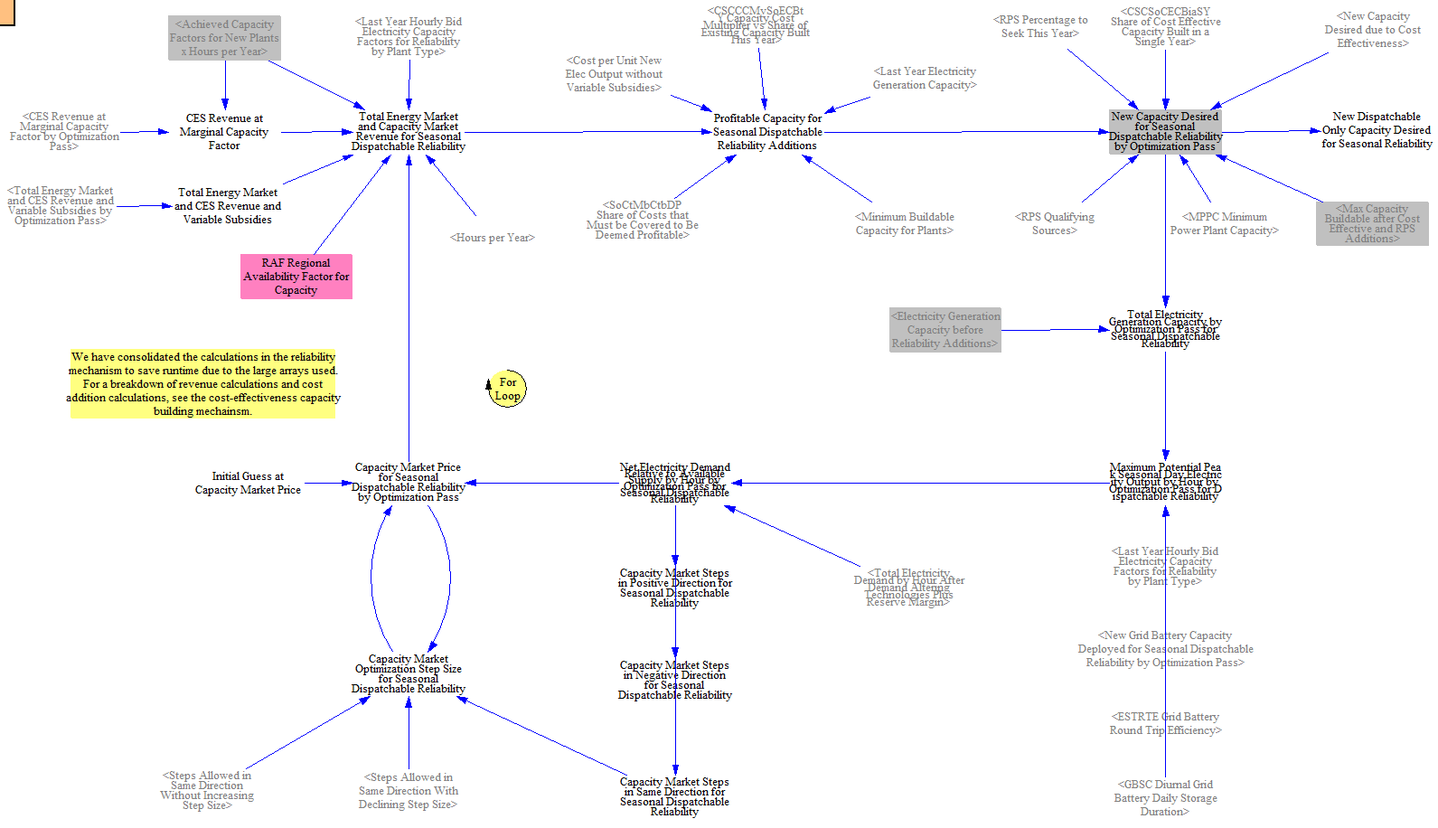
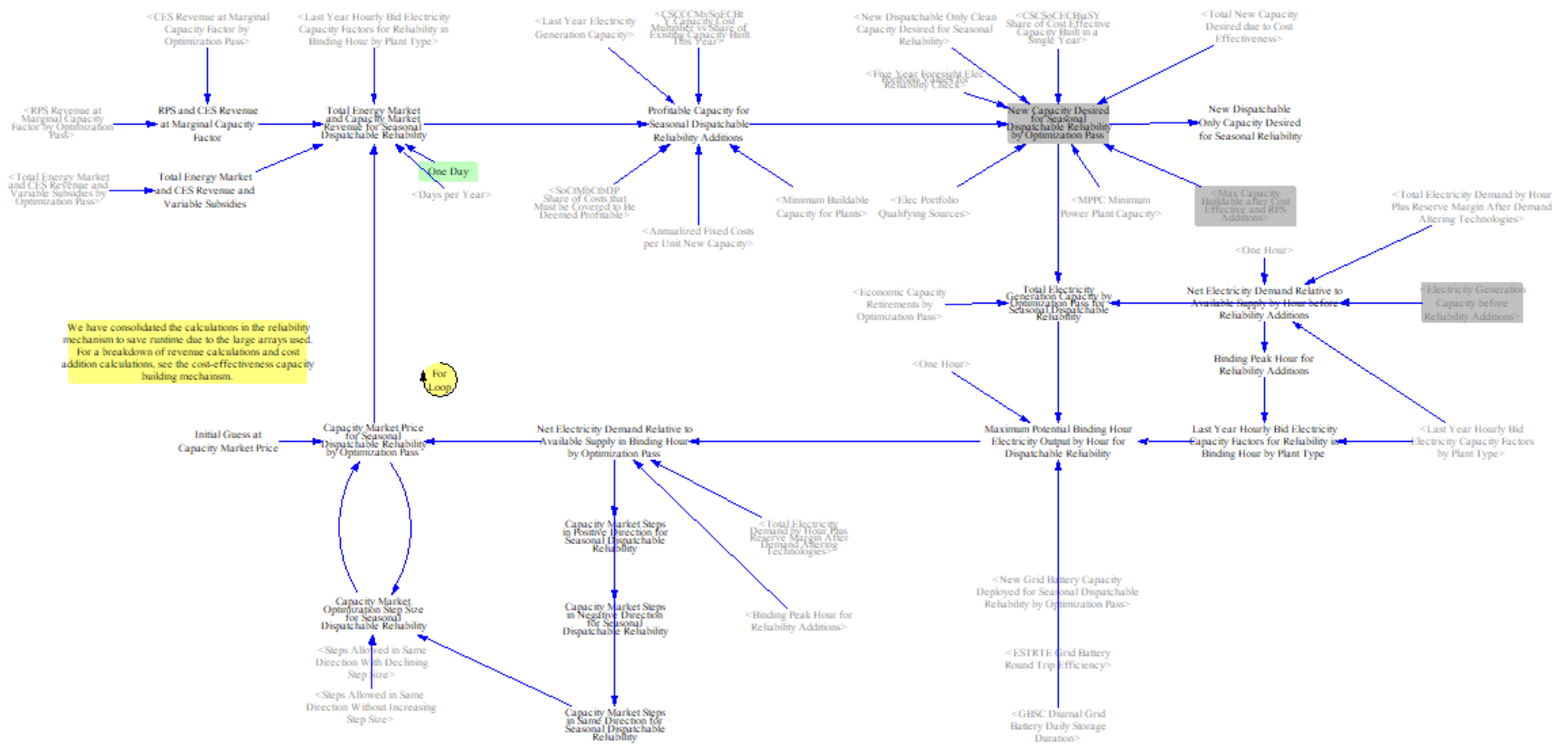
Electricity sector main 4.0.5 update

diff --git a/docs/electricity-sector-main.md b/docs/electricity-sector-main.md
@@ -69,7 +69,7 @@ The EPS reads electricity exports (total) and imports (by fuel type) from input 
 
 ### Calculating Hourly Electricity Demand from Annual Electricity Demand including Own Use and Transmission and Distribution Losses
 
-The model then moves to compute total hourly final electricity demand. In other sectors of the model, electricity demand is tracked annuallyl; for example, total annual cooling demand in buildings or demand for electric vehicle charging. Input data relating annual demand to hourly demand (load factors) is used to convert the annual values to hourly values aligned with the electricity timeslices used by the model. 
+The model then moves to compute total hourly final electricity demand. In other sectors of the model, electricity demand is tracked annually; for example, total annual cooling demand in buildings or demand for electric vehicle charging. Input data relating annual demand to hourly demand (load factors) are used to convert the annual values to hourly values aligned with the electricity timeslices used by the model. 
 
 Due to differences in data alignment, i.e. some end uses don’t directly overlap with input data, an adjustment can be necessary to ensure the computed peak and minimum demand values align with historical data. In this step, the model multiplies the computed hourly demand by an Hourly Variance Multiplier that is estimated such that the peak annual demand in the EPS aligns with historically observed values.
 
@@ -113,7 +113,12 @@ Next the model estimates the potential day contribution of pumped hydro. Due to 
 
 #### EV Batteries
 
-EV batteries can contribute to load shifting in the EPS based on input data and policy settings. The model aggregates the total amount of battery capacity from the existing stock of vehicles and then applies a BAU share of the EV battery capacity that can be used for grid balancing based on input data (in many countries this is set to zero as there is no vehicle-to-grid availability yet). Users can modify this through a policy lever which allows for increasing the share of total EV battery capacity that can be used for grid balancing. The model computes the final maximum amount of daily shifting that can be utilized from the EV batteries (round trip losses are accounted for later).
+EV batteries can contribute to load shifting in the EPS based on input data and policy settings. The model tracks two related but distinct measures of available EV-battery contribution to grid balancing:
+
+* The **daily energy budget** (in MW·hr) that can be charged or discharged for diurnal balancing — the measure used in the load-shifting calculations described in this section. It is computed from the existing fleet's total battery energy capacity multiplied by the BAU share of EV battery capacity available for grid balancing (in many countries this is set to zero today as there is no vehicle-to-grid availability yet).
+* The **instantaneous power capacity** (in MW) that EVs can supply to the grid as a demand-shifting resource. It is computed by multiplying the number of battery electric vehicles in each vehicle and cargo type by the average vehicle charger capacity (in kW per vehicle), summed across the fleet, and then multiplied by the same grid-balancing share. This MW figure feeds a unified `Total Demand Shifting Capacity in MW` aggregator that combines EV batteries with demand response, pumped hydro, and grid + hybrid battery storage for grid-services accounting.
+
+Users can modify the grid-balancing share through a policy lever which allows for increasing the share of total EV battery capacity that can be used for grid balancing. The model computes the final maximum amount of daily shifting that can be utilized from the EV batteries (round trip losses are accounted for later).
 
 ![potential daily max shifting from EV batteries](/img/electricity-sector-main-EVBatteries.png)
 
@@ -163,7 +168,7 @@ At the end of this calculation flow, the model has determined the final hourly e
 
 ### Summing Charging and Discharging from Batteries
 
-Finally, the model sums the total amount of battery capacity and the total charging and discharging of batteries, inclusive of hybrid batteries, for use in other places throughout the model.
+The model sums the total amount of battery capacity and the total charging and discharging of batteries, inclusive of hybrid batteries, for use in other places throughout the model. For hybrid batteries (those paired with a renewable resource at the same plant), the model decides which hours to charge and discharge by treating the previous five-year average marginal dispatch cost as a price signal: a Vensim allocation function distributes each day's charging budget toward the hours with the lowest prices and the discharging budget toward the hours with the highest prices, so that hybrid storage tends to charge when cheap power is plentiful and discharge when prices are high. Standalone grid batteries continue to use the load-shifting allocation mechanism described in the diurnal-balancing sections above.
 
 ![total hourly and annual charging and discharging of battery storage](/img/electricity-sector-main-HourlyBatteryChargeDischarge.png)
 
@@ -205,7 +210,7 @@ Annual recurring costs are calculated as an input into the retirement decision-m
 
 ### Clean Electricity Standard and Zero Emission Credit Revenue
 
-Input data can specify any credits specifically for nuclear power plant owners. The model calculates a credit price from the clean electricity standard (discussed later) which is used here. Total revenue from these credits is calculated for use in the retirement calculations.
+Input data can specify any credits specifically for nuclear power plant owners. The model calculates credit prices from the clean electricity portfolio standard (discussed later) which are used here. The portfolio standard is represented as a unified framework that can simultaneously enforce a Renewable Portfolio Standard (RPS) and a Clean Energy Standard (CES) -- the two are configured independently with their own qualifying-resource definitions and percentage targets, and a separate credit price is computed for each. Total revenue from these credits, summed across the RPS and CES paths, is calculated for use in the retirement calculations.
 
 ![Revenues from CES and ZEC programs](/img/electricity-sector-main-CESandZECRevenues.png)
 
@@ -247,7 +252,13 @@ For each power plant type, annual revenues are compared against going forward co
 
 To this, the model adds capacity retirements specified in input data and finally adds capacity retirements from any policy lever settings to determine total retiring generation capacity.
 
+The model also supports a third, optional retirement path based on a fixed economic lifetime per power plant type. When this path is enabled (via a control setting), the model retires capacity in the year that its vintage age equals the configured economic lifetime for its source type, in addition to any economic and policy-driven retirements that would otherwise occur. This complements the economic retirement mechanism described above and is useful for calibration and for representing plants that are scheduled to retire at expected end-of-life regardless of profitability. The control setting is off by default in the U.S. model.
+
 ![Calculated total retiring generation capacity](/img/electricity-sector-main-Retirements2.png)
+
+We duplicate this structure below but exclude plants' predicted capacity market revenue. The retirements calculated here are not used in the calculation flow; rather the difference between modeled cumulative retiring capacity and the value without capacity payments is used later in the cash flows to estimate system capacity costs.
+
+![Retiring generation capacity without capacity payment](/img/electricity-sector-main-Retirements3.png)
 
 ### Maximum Buildable Capacity
 
@@ -261,7 +272,7 @@ In this stage, the model calculates new capacity additions across multiple mecha
 
 ### Policy Mandated Capacity Additions and Retrofits
 
-Mandated capacity additions and CCUS retrofits in the BAU and policy scenarios can be specified in the input data and policy levers. The model starts by reading in these values and adding them to new capacity built and retrofits in future years. 
+Mandated capacity additions and CCUS retrofits in the BAU and policy scenarios can be specified in the input data and policy levers. The model starts by reading in these values and adding them to new capacity built and retrofits in future years. The model maintains two independent mandate paths: a per-electricity-source generation mandate (covering the 24 generation technologies listed above) and a grid-battery storage mandate, each with its own BAU input schedule and its own non-BAU policy lever. The grid-battery path uses `BPMGBSA BAU Policy Mandated Grid Battery Storage Additions` as its BAU input. The two paths are independent, so a user can override mandated grid-battery additions without disturbing mandated generation construction, and vice versa.
 
 ![Policy mandated capacity additions and retrofits](/img/electricity-sector-main-PolicyMandatedAdditionsRetrofits.png)
 
@@ -281,7 +292,7 @@ The core logic underpinning each element of the capacity expansion structure ope
 
 This mechanism operates simultaneously for new resources without storage, new resources with storage, and CCUS retrofits of existing resources.
 
-The model begins by cumulating the total anticipated revenue by resource type. This relies on the rolling four-year energy market revenue discussed earlier and any anticipated policy revenue, particularly credits for the Clean Electricity Standard, which is co-optimized with economic capacity expansion (discussed later). Revenue is normalized into $/Megawatt-hour based on achieved capacity factors by resource in the model. Subsidies for electricity generation are added.
+The model begins by cumulating the total anticipated revenue by resource type. This relies on the rolling four-year energy market revenue discussed earlier and any anticipated policy revenue, particularly credits from the portfolio-standard mechanism (RPS, CES, or both), which is co-optimized with economic capacity expansion (discussed later). Revenue is normalized into $/Megawatt-hour based on achieved capacity factors by resource in the model. Subsidies for electricity generation are added.
 
 The model then compares anticipated revenue against the anticipated levelized cost of building new resources, not including variable subsidies (these are considered a revenue stream). Resources that are profitable will have revenues that exceed costs while unprofitable resources will not. This results in a profit value, i.e. revenues minus costs.
 
@@ -297,9 +308,11 @@ The model then computes the total new capacity added using this computed value a
 
 ### Clean Electricity Standard Additions
 
-The EPS includes the clean electricity standard (CES; sometimes referred to as renewable portfolio standard, RPS) as one of the key power sector policies. The application of the CES/RPS is co-optimized with the cost-effectiveness additions to identify a credit price that generates sufficient revenue to add or retrofit resources for cost-effectiveness that leads to compliance with the CES/RPS setting. In each optimization pass, the model checks to see whether the anticipated amount of existing and new or retrofit clean electricity is sufficient to meet the standard. It will raise the credit price until this share is met and converge on a credit price that gets just the right amount of new clean capacity built and/or retrofit. 
+The EPS represents electricity portfolio standards through a unified framework that can simultaneously enforce a Renewable Portfolio Standard (RPS) and a Clean Energy Standard (CES). RPS typically qualifies only renewable resources (wind, solar, geothermal, hydro, etc.); CES is broader and may also qualify nuclear, fossil generation paired with carbon capture, and other low-carbon firm resources. The model treats the two as configurations of the same machinery: each has its own qualifying-resource definitions, its own percentage targets (which can also vary by subregion), and its own credit price that the model converges on. A run can enforce either standard, both at once, or neither. Where these docs below use the abbreviation "CES/RPS," it refers to whichever of the two standards is being computed in that step.
 
-The first stage of the CES is to compute the weighted average national CES/RPS value. The model allows for different resources to be included as part of the RPS/CES and aggregates subnational data provided in the input data to estimate a binding CES/RPS value. For example, many states have existing RPS/CES values and collectively they form a national floor CES, below which a user policy setting would not be binding. This first set of structures computes the effective RPS/CES value that model will achieve.
+The application of each portfolio standard is co-optimized with the cost-effectiveness additions to identify a credit price that generates sufficient revenue to add or retrofit resources for cost-effectiveness that leads to compliance with the standard. In each optimization pass, the model checks to see whether the anticipated amount of existing and new or retrofit qualifying electricity is sufficient to meet the target. It will raise the credit price until this share is met and converge on a credit price that gets just the right amount of new qualifying capacity built and/or retrofit. The RPS and CES optimizations run in separate passes, so each finds its own marginal-clearing credit price.
+
+The first stage is to compute the weighted average national CES/RPS value. The model allows for different resources to be included as part of the RPS or CES and aggregates subnational data provided in the input data to estimate a binding value. For example, many states have existing RPS/CES values and collectively they form a national floor, below which a user policy setting would not be binding. This first set of structures computes the effective RPS/CES value that the model will achieve, separately for each. In parallel, the model optionally determines the portfolio percentage needed to meet future RPS/CES values if foresight is enabled. 
 
 ![Calculating RPS/CES percentage to seek](/img/electricity-sector-main-CESTarget.png)
 
@@ -325,21 +338,24 @@ The EPS also tracks green hydrogen demand and will build off-grid renewables to 
 
 ### Reliability Additions
 
-At this point the model has built capacity as mandated in input data, for cost-effectiveness, to comply with an RPS or CES including if flexible clean resources are needed, and for off-grid green hydrogen production. The final set of capacity mechanisms ensure there are sufficient resources online to meet reliability in every hour, including a reserve margin. 
+At this point the model has built capacity as mandated in input data, for cost-effectiveness, to comply with an RPS or CES including if flexible clean resources are needed, and for off-grid green hydrogen production. The final capacity mechanism ensures there are sufficient resources online to meet reliability in every hour, including a reserve margin.
 
-The reliability mechanism is broken into two steps due to limitations in Vensim. The model cannot optimize a resource mix across multiple hours and resource types at the same time given the structural limitations of Vensim (this would require a linear program). So, the EPS first does a reliability optimization limiting the model to building dispatchable resources. In the second optimization, the model adds the resources from the first optimization to the supply mix and then fills in the rest of what is needed from any resources. An example helps illustrate why this approach is necessary.
+In practice, reliability additions in the EPS comprise **dispatchable resources** -- the kinds of plants utilities and grid operators rely on to provide firm capacity during peak demand hours (e.g., natural gas peakers, nuclear, hydro, biomass, dispatchable storage). Variable renewable resources like solar PV and onshore wind do not effectively enter through this mechanism because their availability in the binding peak hour (typically a winter evening for many regions, when solar output is zero) is very low; the capacity-market revenue they would receive in this calculation is discounted by that availability and is too small to make them profitable for reliability additions. They enter the model instead through the cost-effectiveness, portfolio-standard, and policy-mandate mechanisms above. This restriction reflects real-world capacity planning practice, where reliability is provided by firm and dispatchable resources rather than by variable renewables.
 
-Consider a system with a summer peak at 2 PM and a winter peak at 10 PM and where the summer peak is higher than the winter peak. If the model optimize around the single maximum peak, it might want to build solar to meet the 2 PM peak, but this solar would be unavailable for the winter peak. This could lead to situations where the model is unable to meet winter demand. On the other hand, the model was allowed to build all it wanted for both peaks, for example solar for the summer peak and gas for the winter peak, and it just summed the additions from the two peaks, this would add too much capacity, because some of the gas winter peaking capacity could be used for the 2 PM summer peak. The best way to address this challenge is through the use of a linear program, b Vensim is not configured for this. So, the EPS addresses this challenge by splitting the reliability mechanism into two pieces. It first computes the dispatchable capacity, and then fills in the remainder with any kind of capacity.
+To size additions, the model first identifies the **single binding peak hour** -- the (timeslice, hour) combination across the peak winter and peak summer days where net electricity demand most exceeds the available supply, after accounting for the reserve margin. It then computes a capacity price that increases revenue such that sufficient dispatchable capacity is added to the system, using the same cost-effectiveness structure used elsewhere in the model. Resources' total revenue from the capacity price is discounted by their hourly availability in the binding hour. For example, if a winter 10 PM peak is the binding hour, dispatchable resources receive capacity revenue weighted by their typical availability in that hour.
 
-The model determines capacity additions by first estimating how much is needed in each hour and computing a capacity price that increases revenue such that sufficient capacity is added to the system, using the same cost-effectiveness structure used elsewhere in the model. The single highest hour is identified and used as the price for all resources. Resources’ total revenue from the capacity price is discounted by their hourly availability in the binding hour. For example, if a winter 10 PM peak is the binding hour, solar PV would not receive any capacity revenue, but onshore wind would at its estimated capacity factor.
+To estimate how much is needed in each hour, the model uses a peak winter and a peak summer timeslice. These are meant to represent the worst system conditions during the worst days of each season in terms of demand and potential output from variable resources. The input data uses hierarchical clustering of historical demand data and the minimum capacity factor for variable resources. The model then adds a reserve margin to ensure sufficient supply. These approaches attempt to mimic planning procedures of real-world utilities and grid operators. 
 
-To estimate how much is needed in each hour, the model uses a peak winter and a peak summer timeslice. These are meant to represent the worst system conditions during the worst five days of each season in terms of demand and potential output from variable resources. The input data looks at the maximum demand during each hour of the top five days and the minimum capacity factor for variable resources. The model adds a reserve margin on top of this, to ensure sufficient supply. These approaches try to mimic planning procedures by real world utilities and grid operators.
+The reliability mechanism runs two parallel sub-computations on disjoint subsets of dispatchable resources, both summed into a single set of reliability additions:
 
-![Dispatchable-only reliability additions](/img/electricity-sector-main-DispatchableReliability.png)
+* **Clean dispatchable reliability** -- restricted to dispatchable resources that qualify under the active CES (e.g., nuclear, hydro, geothermal, biomass with CCS, gas with CCS). This sub-pass ensures that as a CES approaches 100%, the model can still maintain reliability with qualifying resources rather than non-qualifying generation.
+* **General dispatchable reliability** -- the remaining dispatchable resources (e.g., natural gas peakers in regions where the CES does not require carbon capture). This sub-pass handles reliability needs that don't have to come from CES-qualifying resources.
 
-![Residual reliability additions](/img/electricity-sector-main-ResidualReliability.png)
+Both sub-passes use the same binding-peak-hour structure described above. Their resulting capacity additions are summed and added to the generation-capacity total going into stock-and-flow tracking.
 
-Because the reliability mechanisms are downstream of the cost-effectiveness mechanism, including for the CES/RPS, the reliability mechanism can result in additional clean capacity being built that causes the model to exceed the CES/RPS value in certain years. The only way to fully address this would be through a linear program where the model could optimize capacity against multiple constraints at once, but Vensim is unable to do this.
+![Dispatchable reliability additions](/img/electricity-sector-main-DispatchableReliability.png)
+
+Because the reliability mechanism runs downstream of the cost-effectiveness mechanism, including for the CES/RPS, it can result in additional dispatchable clean capacity being built that pushes the model past the CES/RPS target in certain years. The only way to fully avoid this would be through a linear program where the model could optimize capacity against multiple constraints at once, but Vensim is unable to do this.
 
 If the model has a CES/RPS of 100%, the reliability mechanism will not allow non-qualifying resources to be built. However, in the years leading up to the 100% value, the model can still build non-qualifying resources, which may not be run or may not be allowed to run shortly after. This is a known issue using a model without perfect foresight, but we are again constrained by our ability to model this given Vensim’s structure. A future area for enhancement might be to integrate the future year RPS value into the reliability structure to prevent the model from building resources that would never or only scarcely be used.
 
@@ -363,7 +379,7 @@ Existing capacity, retirements, new capacity, and retrofits are combined to prod
 
 Various capacity factor calculations are used through the electricity sector. These include achieved capacity factors (annual and by hour), three year average achieved capacity factors, expected capacity factors, start year capacity factors, and bid capacity factors. Each of these has a different use in the structure to reflect different situations and calculations.
 
-Three-year average achieved capacity factors by hour are used in the RPS mechanism to ensure compliance will be met at a given RPS price and deployment. Achieved capacity factors by hour are important for measuring hourly output, which in turn is used to estimate annual output and compliance with an annual RPS. Achieved capacity factors differ from expected capacity factors because the account for real world (in the model) operating conditions and things that may cause expected output to deviate from actual output, such as curtailment. The model calculates achieved capacity factors using a three-year rolling average of the model's calculated capacity factor by plant type by hour.
+Three-year average achieved capacity factors by hour are used in the portfolio-standard mechanism (RPS and CES) to ensure compliance will be met at a given credit price and deployment. Achieved capacity factors by hour are important for measuring hourly output, which in turn is used to estimate annual output and compliance with annual portfolio-standard targets. Achieved capacity factors differ from expected capacity factors because they account for real world (in the model) operating conditions and things that may cause expected output to deviate from actual output, such as curtailment. The model calculates achieved capacity factors using a three-year rolling average of the model's calculated capacity factor by plant type by hour.
 
 ![Three year average achieved capacity factors by hour](/img/electricity-sector-main-ThreeYearAverageAchievedCFbyHour.png)
 
@@ -427,13 +443,13 @@ The model combines all the dispatch data at the end of the dispatch process to c
 
 ### Guaranteed Dispatch
 
-The model begins by dispatching resources that are guaranteed, as specified in input data. Based on this data, the model dispatches a fixed amount of the expected capacity of a resource in every hour. Expected capacity factors are based on input data and calculations described above for expected capacity factors. The input data can be configured to have two priority tiers so that in instances where the total amount of demand would be exceeded by guaranteed dispatch, it will first curtail resources in the lower tier and then the higher tier. In instances where guaranteed dispatch and the RPS mechanism conflict, the RPS mechanism will take precedence to ensure compliance.
+The model begins by dispatching resources that are guaranteed, as specified in input data. Based on this data, the model dispatches a fixed amount of the expected capacity of a resource in every hour. Expected capacity factors are based on input data and calculations described above for expected capacity factors. The input data can be configured to have two priority tiers so that in instances where the total amount of demand would be exceeded by guaranteed dispatch, it will first curtail resources in the lower tier and then the higher tier. In instances where guaranteed dispatch and the portfolio-standard mechanism (RPS or CES) conflict, the portfolio-standard mechanism will take precedence to ensure compliance.
 
 ![Guaranteed dispatch](/img/electricity-sector-main-GuaranteedDispatch.png)
 
-### Dispatch of RPS Qualifying Resources
+### Dispatch of Portfolio-Standard Qualifying Resources
 
-Next the model will dispatch RPS qualifying resources, starting with zero- and negative-cost resources and then moving to positive-cost resources. This step helps ensure that these resources are appropriately used even if their costs might exceed other resources. It also ensures alignment with the projected clean share as part of the CES/RPS optimization. The model uses available capacity factors for dispatch here. Because the expected and available capacity factors for variable renewables are the same, and most clean resources today are variable, this is generally not an important distinction, but it matters for certain resources like clean firm resources, which can be used at higher capacity factors when needed to meet CES/RPS requirements.
+Next the model will dispatch RPS- and CES-qualifying resources, starting with zero- and negative-cost resources and then moving to positive-cost resources. This step helps ensure that these resources are appropriately used even if their costs might exceed other resources. It also ensures alignment with the projected qualifying share as part of the CES/RPS optimization. The model uses available capacity factors for dispatch here. Because the expected and available capacity factors for variable renewables are the same, and most qualifying resources today are variable, this is generally not an important distinction, but it matters for certain resources like clean firm resources, which can be used at higher capacity factors when needed to meet CES/RPS requirements. RPS-qualifying resources are dispatched first; remaining qualifying-but-not-yet-dispatched CES resources follow, since CES qualifying definitions are typically a superset of RPS.
 
 ![RPS dispatch](/img/electricity-sector-main-RPSDispatch.png)
 
@@ -465,9 +481,9 @@ Total electricity dispatched is summed across each of the elements of the dispat
 
 ## Economic Storage Additions
 
-The electricity sector estimates economic storage additions based on anticipated market revenues, incentives, and battery costs.
+The electricity sector estimates economic additions of grid battery storage -- specifically standalone grid batteries (storage that is not co-located with a renewable power plant). Storage additions for hybrid power plants (renewables paired with on-site batteries) are co-optimized with the hybrid plant's capacity expansion in the cost-effectiveness step described above. The standalone grid-battery additions described in this section are tracked separately from hybrid storage and use a different revenue-driven methodology. Both standalone and hybrid storage are summed at the end for use in load shifting, market price formation, and reliability checks.
 
-To estimate storage additions the model starts by calculating anticipated market revenues. Unlike for power plants, the model does not directly compare anticipated revenues and against costs to estimate additions, but rather looks only at the anticipated net revenue. This approach is necessary because the EPS omits several sources of revenue for storage, notably including ancillary services like frequency response, and comparing against costs would yield far lower profitability than in reality. Additionally, while the EPS now has hourly granularity for six electricity timeslices, to fully capture the revenue potential for storage would required sub-hourly detail, in addition to grid services. If we directly compared costs and revenues, we would miss a large source of revenue and significantly underestimate anticipated storage additions.
+To estimate standalone grid-battery additions the model starts by calculating anticipated market revenues. Unlike for power plants, the model does not directly compare anticipated revenues and against costs to estimate additions, but rather looks only at the anticipated net revenue. This approach is necessary because the EPS omits several sources of revenue for storage, notably including ancillary services like frequency response, and comparing against costs would yield far lower profitability than in reality. Additionally, while the EPS now has hourly granularity for six electricity timeslices, to fully capture the revenue potential for storage would required sub-hourly detail, in addition to grid services. If we directly compared costs and revenues, we would miss a large source of revenue and significantly underestimate anticipated storage additions.
 
 To estimate market revenues, the model compares the highest and lowest priced hours and computes an estimated daily profit by arbitraging these hours based on the duration of the storage (four hours by default in the US model). This allows the model to determine an estimated annual average charging and discharging profit per MWh of battery capacity. Incentive policies add to the profitability and drive additional storage capacity. Revenues from the reliability mechanism are integrated as well in this step. Declines in battery costs are modeled as a form of revenue as well to reflect increasing profitability of batteries. Together these elements comprise a "net revenue" estimate. The calculation of incentive policies, which can take the form of subsidies for production, for capacity installed, or per unit output, is shown below.
 
@@ -493,11 +509,11 @@ This section includes a few calculated variables that may be of interest in eval
 
 We calculate the amount of curtailed electricity output (based on the reduction in expected capacity factors) from each variable electricity source. These calculations are based on the expected output at expected capacity factors for these resources compared to their actual output. Curtailment can happen when supply is greater than demand or when other resources are guaranteed ahead of variable renewable resources. 
 
-We also track compliance with the RPS, which is used the RPS mechanism and accompany graphs. Conversions to other outputs, such as the percentage generation from clean sources and renewable electricity generation in primary energy units is also handled here.
+We also track compliance with the RPS and CES, which are used by their respective optimization passes and the accompanying graphs. Conversions to other outputs, such as the percentage generation from clean sources and renewable electricity generation in primary energy units, are also handled here.
 
 The EPS also tracks water withdrawn and used by power plants based on input data on power plant types and generation by power plant types. 
 
 Finally, the model aggregates pollutant emissions into estimate of CO<sub>2</sub>e and computes a few additional metrics used throughout the electricity sector.
 
 ---
-*This page was last updated in version 4.0.4.*
+*This page was last updated in version 4.0.5.*
